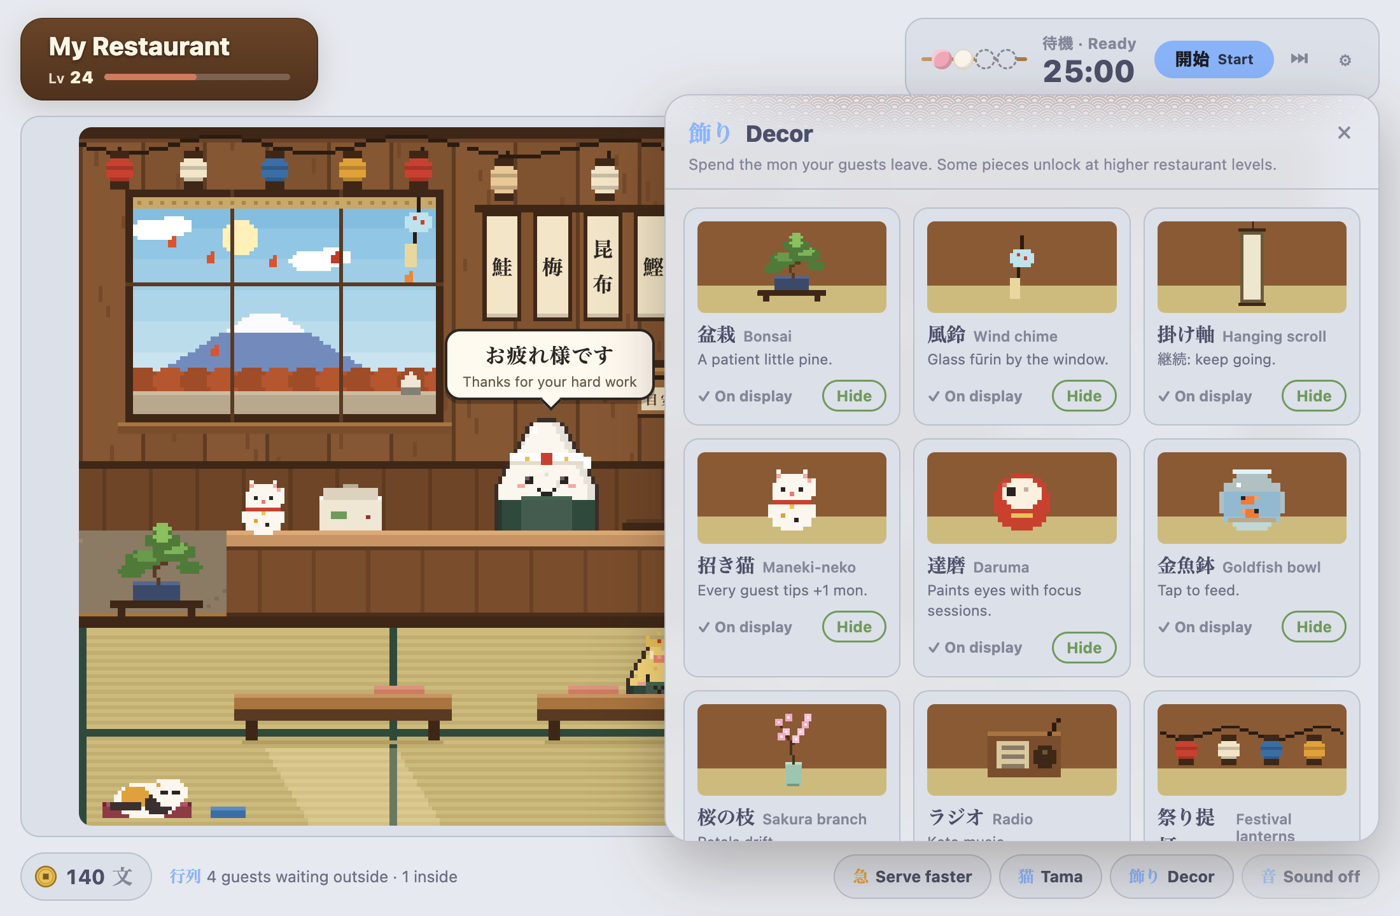
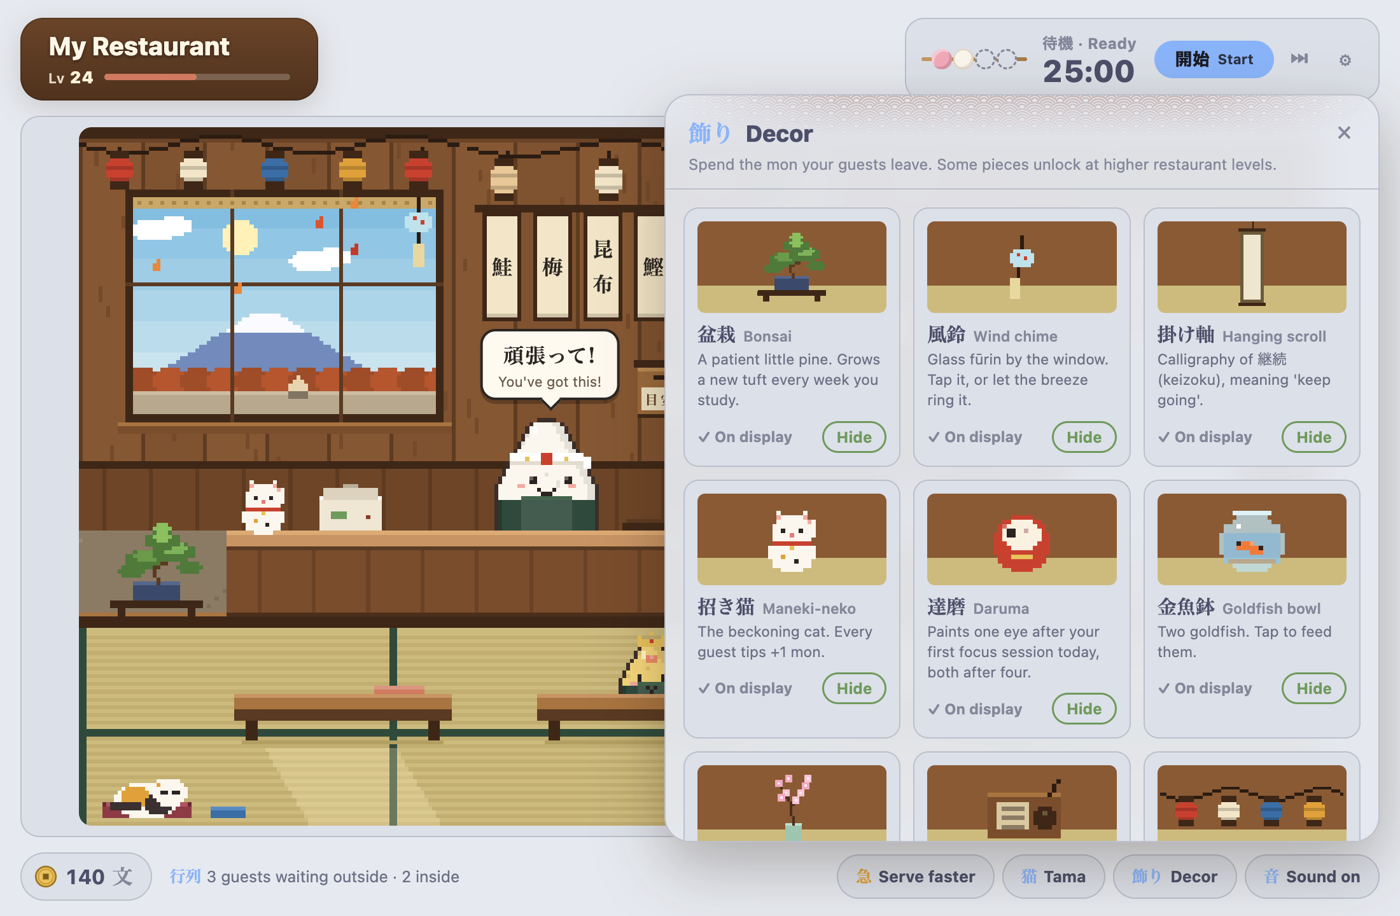
Screenshots: real decor text and default sound setting
The preview now uses the add-on's real decor catalog and default config,
so the README/AnkiWeb images match what users see.

diff --git a/dev/preview.html b/dev/preview.html
@@ -22,26 +22,16 @@ window.OK_INIT = {
   onigiri: {found:true, name: q.get('name')||'My Restaurant', level: parseInt(q.get('level')||'24'), xpInto: 1219, xpNext: 2450, themeColor: '#'+(q.get('color')||'D07A5F')},
   state: {mon: mock.mon, owned: mock.owned, hidden: [], guestsWaiting: guests.length, servedTotal: 0, today:{date:'2026-09-25', reviews:142, focus_done:2}, firstSeen:'2026-09-01', tutorialDone: !q.has('tour')},
   takeout: q.has('clean') ? {count:0, mon:0} : {count: 2, mon: 4},
-  catalog: [
-    {id:'bonsai',name:'Bonsai',jp:'盆栽',level:0,price:15,desc:'A patient little pine.'},
-    {id:'furin',name:'Wind chime',jp:'風鈴',level:2,price:25,desc:'Glass fūrin by the window.'},
-    {id:'kakejiku',name:'Hanging scroll',jp:'掛け軸',level:4,price:35,desc:'継続: keep going.'},
-    {id:'maneki',name:'Maneki-neko',jp:'招き猫',level:6,price:50,desc:'Every guest tips +1 mon.'},
-    {id:'daruma',name:'Daruma',jp:'達磨',level:8,price:45,desc:'Paints eyes with focus sessions.'},
-    {id:'kingyo',name:'Goldfish bowl',jp:'金魚鉢',level:10,price:60,desc:'Tap to feed.'},
-    {id:'sakura',name:'Sakura branch',jp:'桜の枝',level:12,price:70,desc:'Petals drift.'},
-    {id:'radio',name:'Radio',jp:'ラジオ',level:15,price:80,desc:'Koto music.'},
-    {id:'matsuri',name:'Festival lanterns',jp:'祭り提灯',level:18,price:90,desc:'Festival style.'},
-    {id:'tanuki',name:'Tanuki statue',jp:'信楽狸',level:30,price:120,desc:'Golden guests tip double.'}],
-  conf: {focus_minutes:25, short_break_minutes:5, long_break_minutes:15, rounds_before_long_break:4, focus_card_goal:0, reviews_per_guest:10, sound:false, volume:0.5, auto_open_kitchen_on_break:true},
-  timer: {pomo: pomo(), sound:false, volume:0.5}
+  catalog: [{"id": "bonsai", "name": "Bonsai", "jp": "盆栽", "level": 0, "price": 15, "desc": "A patient little pine. Grows a new tuft every week you study."}, {"id": "furin", "name": "Wind chime", "jp": "風鈴", "level": 2, "price": 25, "desc": "Glass fūrin by the window. Tap it, or let the breeze ring it."}, {"id": "kakejiku", "name": "Hanging scroll", "jp": "掛け軸", "level": 4, "price": 35, "desc": "Calligraphy of 継続 (keizoku), meaning 'keep going'."}, {"id": "maneki", "name": "Maneki-neko", "jp": "招き猫", "level": 6, "price": 50, "desc": "The beckoning cat. Every guest tips +1 mon."}, {"id": "daruma", "name": "Daruma", "jp": "達磨", "level": 8, "price": 45, "desc": "Paints one eye after your first focus session today, both after four."}, {"id": "kingyo", "name": "Goldfish bowl", "jp": "金魚鉢", "level": 10, "price": 60, "desc": "Two goldfish. Tap to feed them."}, {"id": "sakura", "name": "Sakura branch", "jp": "桜の枝", "level": 12, "price": 70, "desc": "A blossoming branch by the door. Petals drift through the shop."}, {"id": "radio", "name": "Radio", "jp": "ラジオ", "level": 15, "price": 80, "desc": "Plays a soft, endless koto melody while it's switched on."}, {"id": "matsuri", "name": "Festival lanterns", "jp": "祭り提灯", "level": 18, "price": 90, "desc": "A second string of lanterns, festival style."}, {"id": "tanuki", "name": "Tanuki statue", "jp": "信楽狸", "level": 20, "price": 120, "desc": "A Shigaraki tanuki for good fortune. Golden guests tip double."}],
+  conf: {focus_minutes:25, short_break_minutes:5, long_break_minutes:15, rounds_before_long_break:4, focus_card_goal:0, reviews_per_guest:10, sound:true, volume:0.5, auto_open_kitchen_on_break:true},
+  timer: {pomo: pomo(), sound:true, volume:0.5}
 };
 window.pycmd = function(msg, cb){
   const [, cmd, ...rest] = msg.split(':'); const arg = rest.join(':');
   let r = null;
   if (cmd==='claim') r = guests.shift() || null;
   else if (cmd==='pay') { mock.mon += JSON.parse(arg).amount; r = {mon: mock.mon, owned: mock.owned, hidden: mock.hidden, guestsWaiting: guests.length, today:{reviews:142, focus_done:2}}; }
-  else if (cmd==='timer') { if (arg==='start') phase='focus'; if (arg==='skip') phase = phase==='focus'?'break':'idle'; if (arg==='reset') phase='idle'; r = {pomo: pomo(), sound:false}; }
+  else if (cmd==='timer') { if (arg==='start') phase='focus'; if (arg==='skip') phase = phase==='focus'?'break':'idle'; if (arg==='reset') phase='idle'; r = {pomo: pomo(), sound:true}; }
   else if (cmd==='conf') r = Object.assign(window.OK_INIT.conf, JSON.parse(arg));
   else if (cmd==='pet') { if (arg==='feed') petState.fish--; petState.love=Math.min(100,petState.love+5); r={ok:true,msg:'',pet:petState}; }
   else if (cmd==='petgift') { const gft = q.has('gift') ? Object.assign({}, GIFTS.find(x=>x.id===q.get('gift'))||GIFTS[11]) : null; if (gft && gft.id==='omikuji') gft.fortune={jp:'大吉',text:'Great blessing. Your cards will stick today.'}; r={gift:gft, pet:petState}; }
